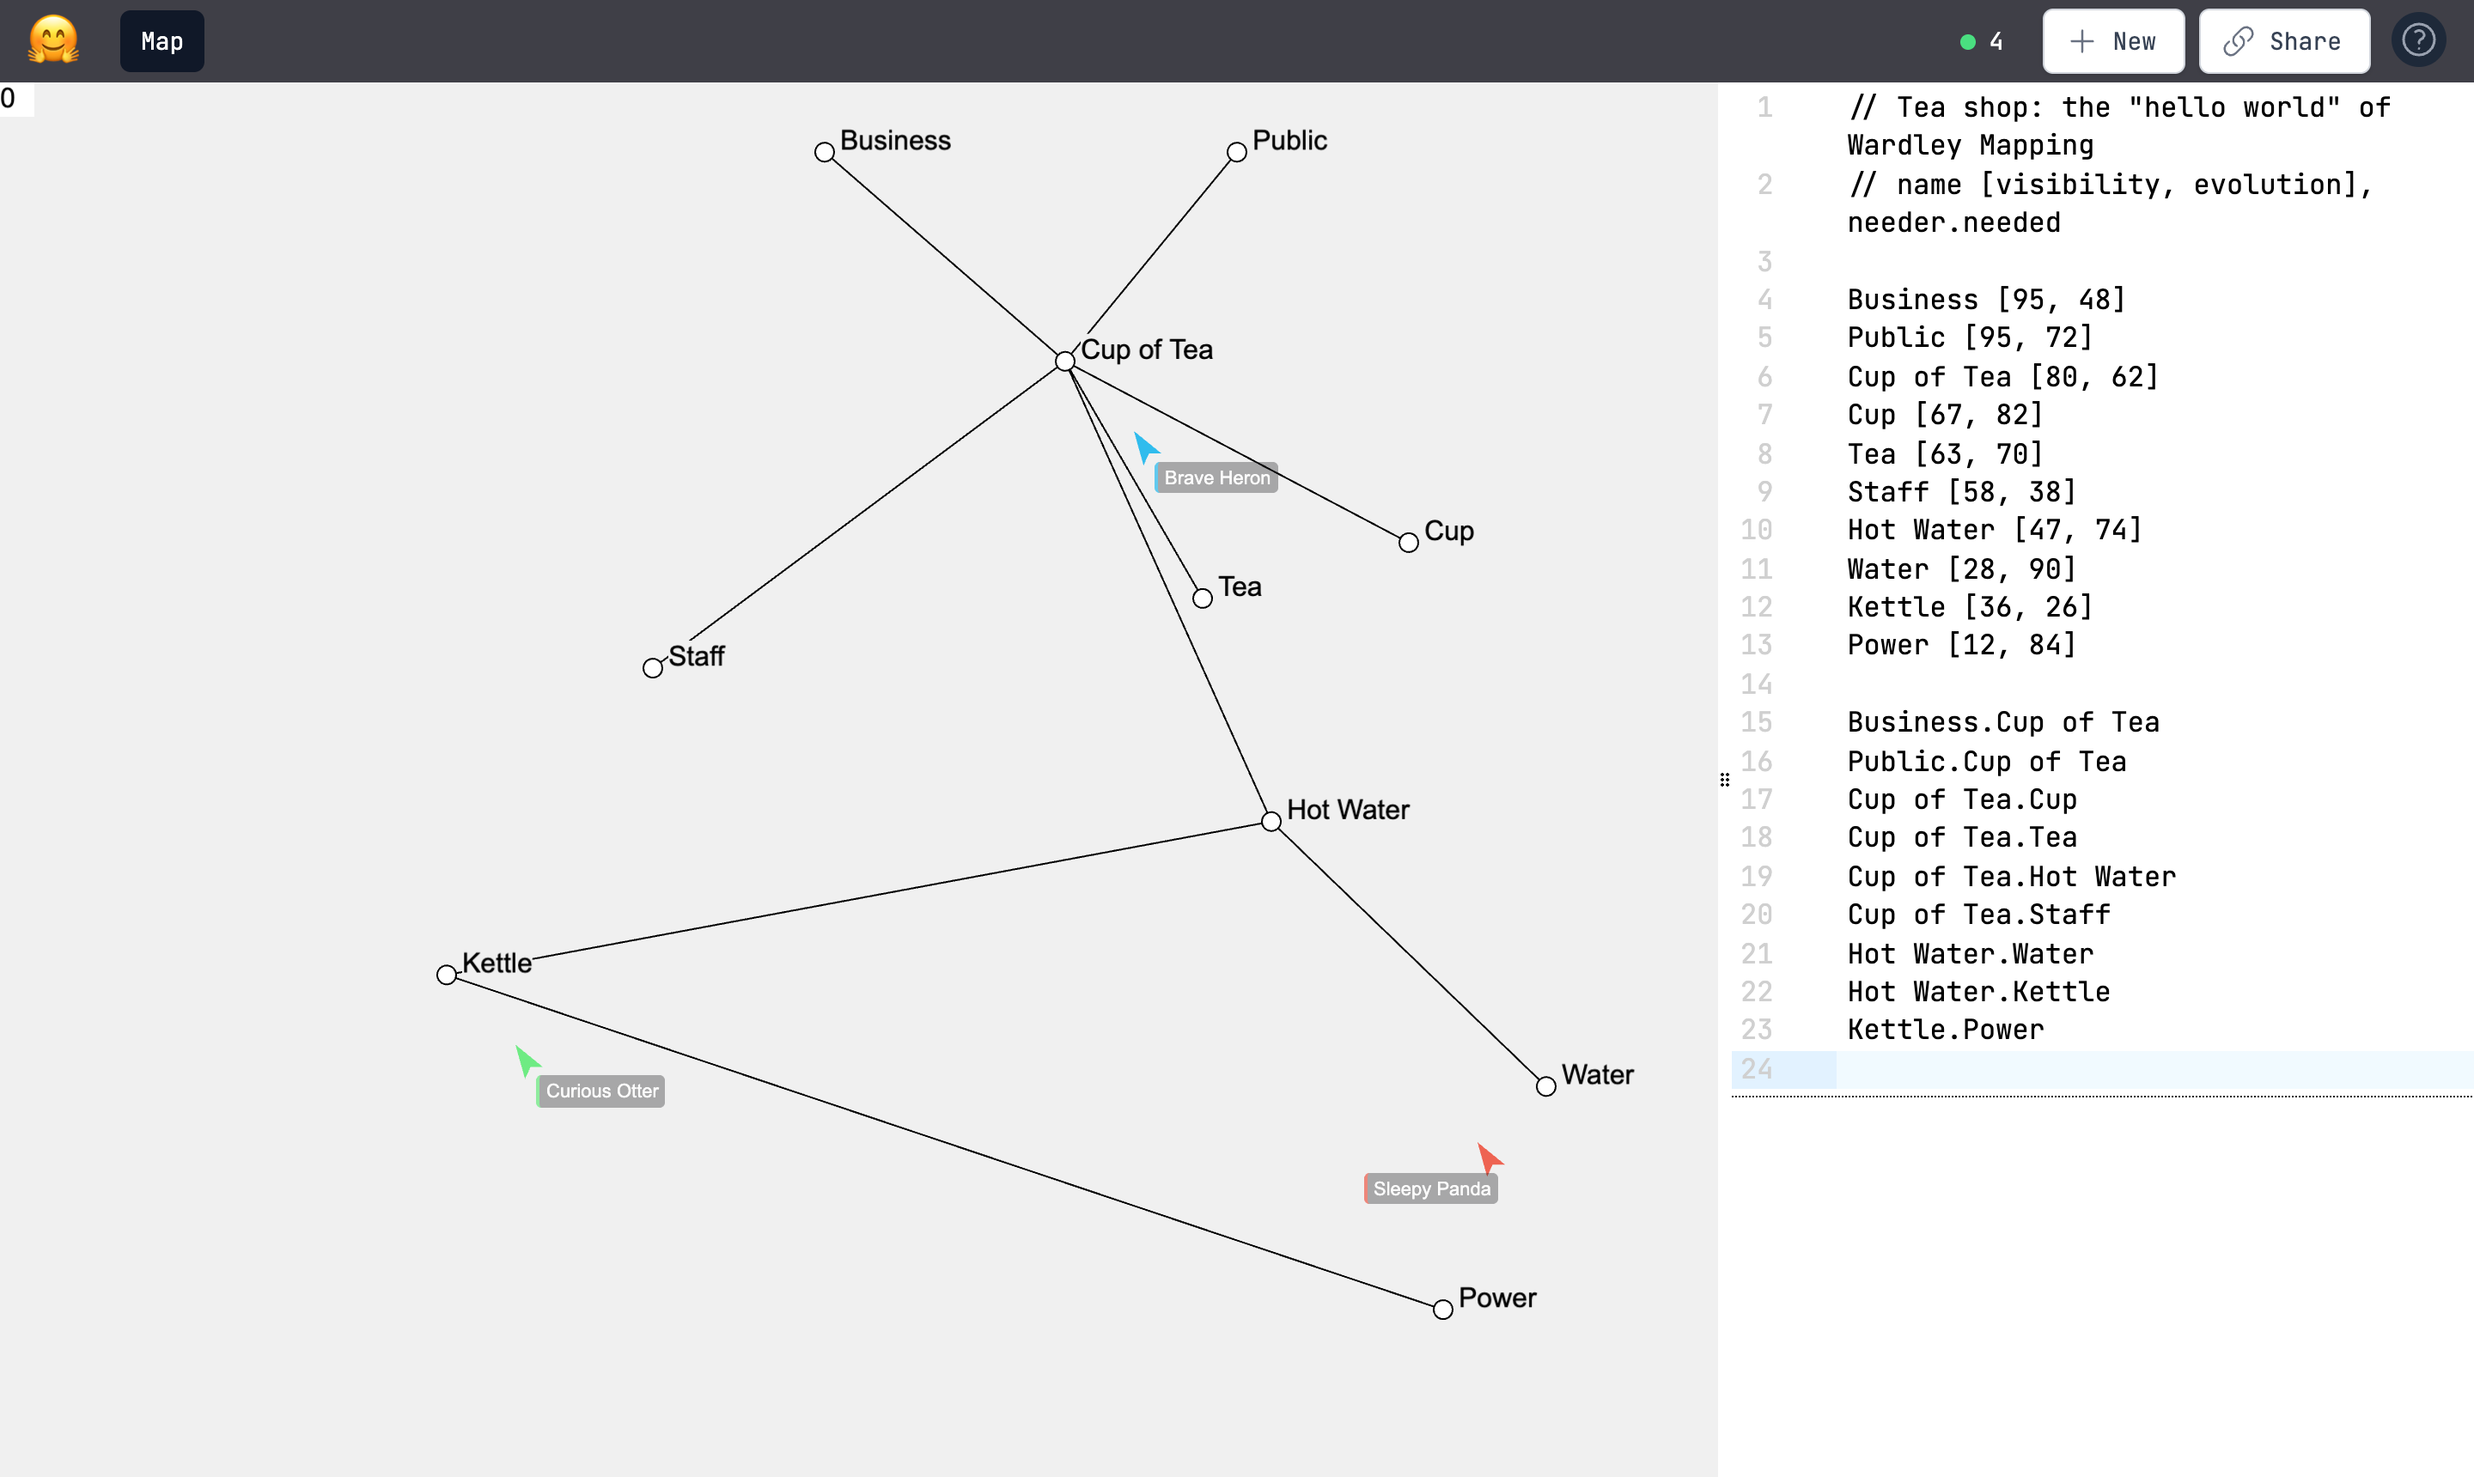
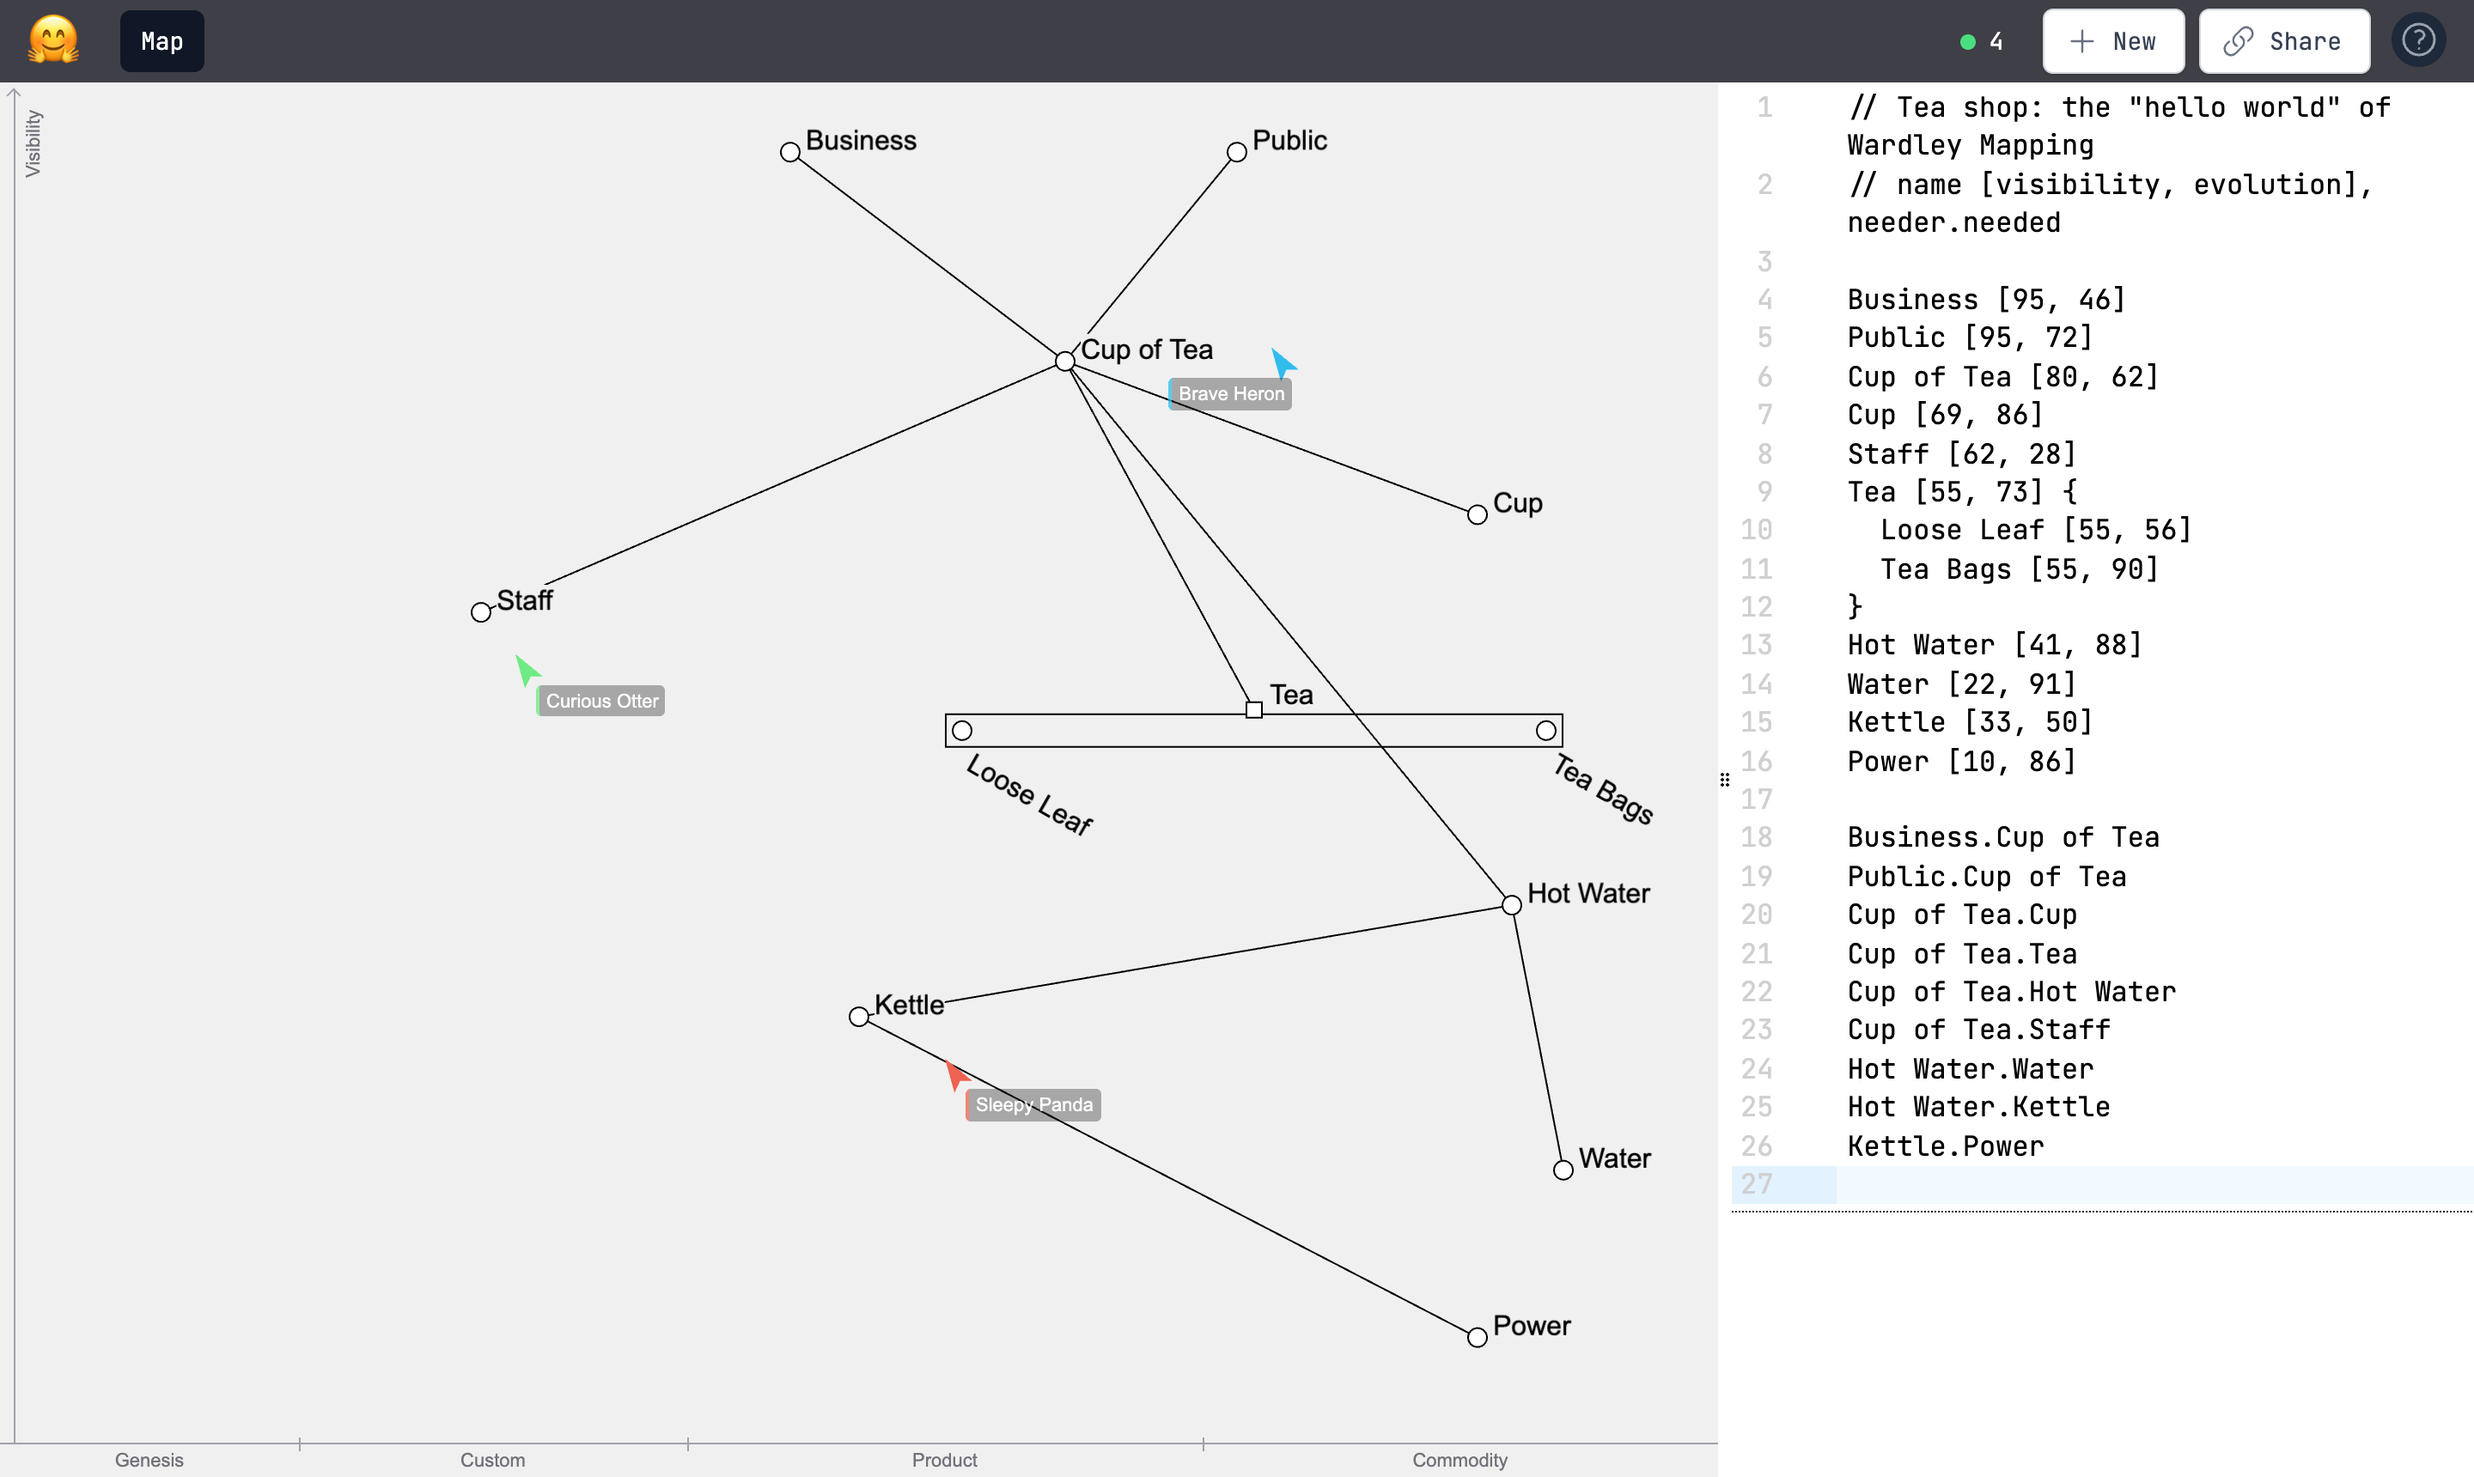
Add Tea pipeline to sample map and retake README screenshot
The screenshot now shows the evolution and visibility axes and no longer
has the debug render counter.

diff --git a/README.md b/README.md
@@ -11,8 +11,9 @@ see your team's edits and cursors live.
 
 ![Three people mapping a tea shop together in MapTogether, each with a named cursor on the canvas](docs/multiplayer-screenshot.png)
 
-<sub>Three people on the same map. Everyone sees the others' cursors, and every
-edit, on the canvas and in the code, shows up for everyone at once.</sub>
+<sub>Three people on the same map, with a pipeline showing loose-leaf tea and tea
+bags at different stages of evolution. Everyone sees the others' cursors, and
+every edit, on the canvas and in the code, shows up for everyone at once.</sub>
 
 ## Why MapTogether
 
@@ -30,6 +31,9 @@ a picture one person emails around.
   show where everyone is working. Hover the people count to see who's on the map.
 - **Saved automatically.** Maps save as you go, with a status light that only
   turns green once the save is confirmed.
+- **Speaks Wardley.** The evolution axis is marked Genesis, Custom, Product and
+  Commodity; hover a stage to see what it's called for practices, data and
+  knowledge. Pipelines show one need met at several stages of evolution.
 - **Fast.** Edits go directly between browsers (peer to peer), and the canvas
   is drawn with WebGL.
 
@@ -56,14 +60,19 @@ map to get the tea shop above, the classic first Wardley Map. A trimmed-down
 version looks like this:
 
 ```text
-Business [95, 48]
+Business [95, 46]
 Public [95, 72]
 Cup of Tea [80, 62]
-Kettle [36, 26]
-Power [12, 84]
+Tea [55, 73] {
+  Loose Leaf [55, 56]
+  Tea Bags [55, 90]
+}
+Kettle [33, 50]
+Power [10, 86]
 
 Business.Cup of Tea
 Public.Cup of Tea
+Cup of Tea.Tea
 Cup of Tea.Kettle
 Kettle.Power
 ```
@@ -74,7 +83,9 @@ The text syntax is small:
   100: visibility from hidden infrastructure (0) up to the user (100), and
   evolution from genesis (0) across to commodity (100).
 - `needer.needed` draws a dependency between two components.
-- `name [v, e] { child [v, e] ... }` groups components into a pipeline.
+- `name [v, e] { ... }` makes a pipeline: put one child component per line
+  inside the braces, each at its own evolution. Children sit on the pipeline's
+  row, so their visibility is ignored.
 - `// comments` are ignored.
 
 ## Status
